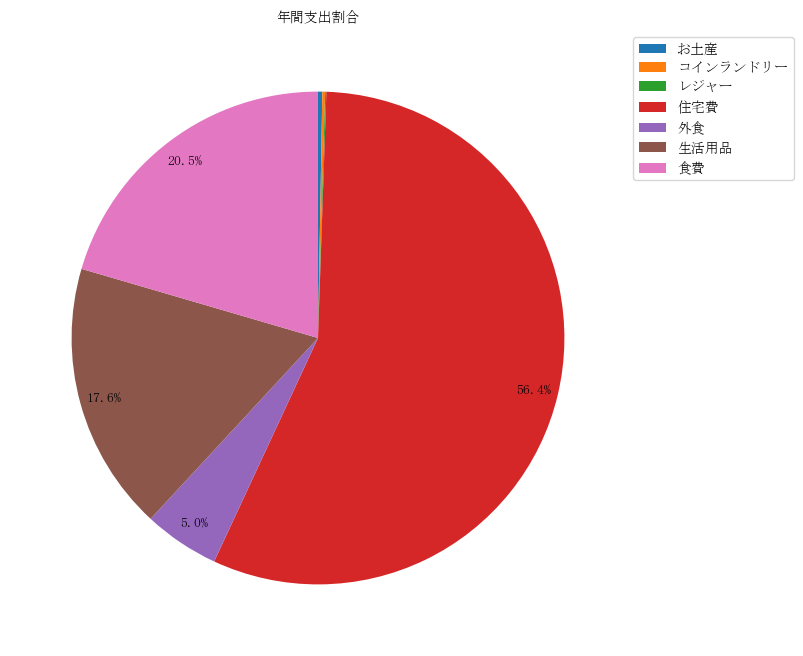
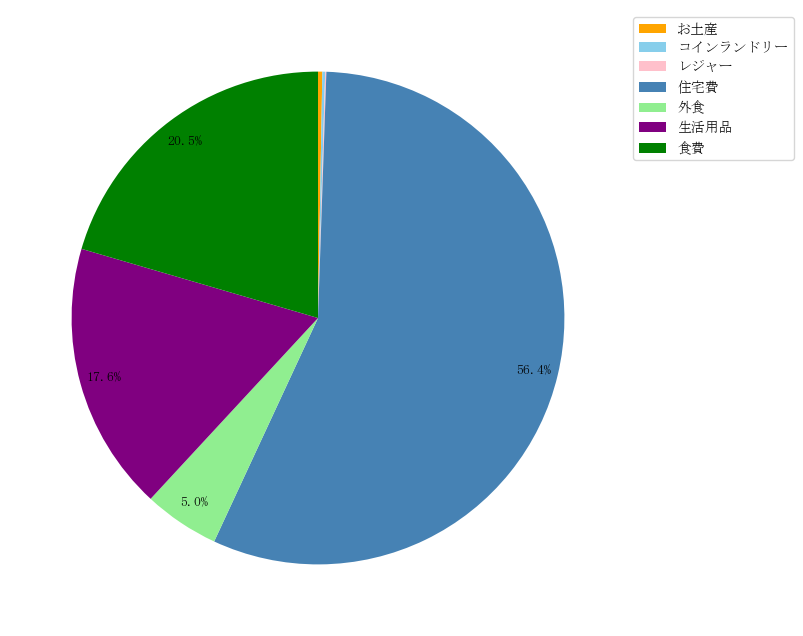
グラフのカテゴリーの色を変更

diff --git a/templates/analysis.html b/templates/analysis.html
@@ -24,17 +24,29 @@
     <div class="container">
         <h2>支出のグラフ</h2>
         <div class="graph_container">
-            {% if graph_url %}
-                <img src="{{ graph_url }}" alt="分類別各月の支出金額">
-            {% else %}
-                <p>データがありません。</p>
-            {% endif %}
+            <table border="1">
+                <tr>
+                    <th>分類別各月の支出金額</th>
+                    <th>分類別年間の支出割合</th>
+                </tr>
+                <tr>
+                    <td>
+                        {% if graph_url %}
+                            <img src="{{ graph_url }}" alt="分類別各月の支出金額">
+                        {% else %}
+                            <p>データがありません。</p>
+                        {% endif %}
+                    </td>
+                    <td>
+                        {% if pie_chart_url %}
+                            <img src="{{ pie_chart_url }}" alt="分類別年間の支出割合">
+                        {% else %}
+                            <p>データがありません。</p>
+                        {% endif %}
+                    </td>
+                </tr>
+            </table>
         
-            {% if pie_chart_url %}
-                <img src="{{ pie_chart_url }}" alt="分類別年間の支出割合">
-            {% else %}
-                <p>データがありません。</p>
-            {% endif %}
         </div>
     </div>
     <footer>最終更新日:</footer>

diff --git a/static/style.css b/static/style.css
@@ -294,8 +294,8 @@ button[type="submit"]:hover {
 }
 
 .graph-container img {
-    width: 48%;  /* 画像の幅を80%に調整 */
-    max-width: 1600px;  /* 最大サイズを800pxに制限 */
+    width: 55%;  /* 画像の幅を80%に調整 */
+    max-width: 200px;  /* 最大サイズを200pxに制限 */
     height: auto;  /* アスペクト比を維持 */
     border: 2px solid #ccc; /* 枠線をつける（任意） */
     border-radius: 10px; /* 角を丸くする（任意） */

diff --git a/app.py b/app.py
@@ -136,10 +136,9 @@ def get_data():
 
 # 📌 グラフを作成する関数（カテゴリーごとの月別支出額）
 def create_expense_graph():
-    
-    # 🔹 日本語フォントを設定（システム内のフォントを自動検索）
-    font_path = "/usr/share/fonts/opentype/ipafont-mincho/ipam.ttf"  # Linuxの場合
-    if not os.path.exists(font_path):  # フォントがない場合は検索
+    # 🔹 日本語フォントの設定
+    font_path = "/usr/share/fonts/opentype/ipafont-mincho/ipam.ttf"
+    if not os.path.exists(font_path):
         font_candidates = fm.findSystemFonts(fontpaths=['/usr/share/fonts', '/Library/Fonts', 'C:/Windows/Fonts'])
         font_path = next((f for f in font_candidates if 'ipag' in f.lower() or 'msmincho' in f.lower()), None)
 
@@ -148,7 +147,7 @@ def create_expense_graph():
         plt.rcParams['font.family'] = font_prop.get_name()
     else:
         print("⚠ 日本語フォントが見つかりません！英語のまま表示します。")
-        
+
     conn = sqlite3.connect(DB_FILE)
     cursor = conn.cursor()
 
@@ -170,22 +169,40 @@ def create_expense_graph():
     categories = sorted(set(row[1] for row in data))  # カテゴリーのリスト
 
     category_data = {cat: [0] * len(months) for cat in categories}
+    total_by_month = [0] * len(months)  # 月ごとの合計額を格納
 
     for month, category, amount in data:
         month_index = months.index(month)
         category_data[category][month_index] = amount
+        total_by_month[month_index] += amount  # 各月の合計を計算
+
+    # カテゴリーごとの色を設定
+    category_colors = {
+        '食費': 'green',
+        '外食': 'lightgreen',
+        '生活用品': 'purple',
+        '住宅費': 'steelblue',
+        'お土産': 'orange',
+        'コインランドリー': 'skyblue',
+        'レジャー': 'pink',
+        # 他のカテゴリーに色を追加
+    }
 
     # 積み上げ棒グラフの描画
     plt.figure(figsize=(10, 6))
     bottom_values = np.zeros(len(months))  # 積み上げ用の初期値
 
     for category, values in category_data.items():
-        plt.bar(months, values, bottom=bottom_values, label=category)
+        color = category_colors.get(category, 'gray')  # 指定がない場合は灰色
+        plt.bar(months, values, bottom=bottom_values, label=category, color=color)
         bottom_values += np.array(values)
-    
+
+    # 月ごとの合計金額を棒の上にラベル表示
+    for i, total in enumerate(total_by_month):
+        plt.text(months[i], total + 3000, f"{int(total):,}円", ha="center", fontsize=12, fontweight="bold")
+
     plt.xlabel("月")
     plt.ylabel("支出金額")
-    plt.title("月ごとのカテゴリー別支出")
     plt.xticks(months)  # X軸を月に設定
     plt.legend()
 
@@ -194,6 +211,7 @@ def create_expense_graph():
     plt.savefig(graph_path, bbox_inches="tight")
     plt.close()
     return "/static/expense_chart.png"
+
 
 # 📌 カテゴリーごとの年間支出割合の円グラフを作成
 def create_pie_chart():
@@ -227,12 +245,29 @@ def create_pie_chart():
     else:
         print("⚠ 日本語フォントが見つかりません！英語のまま表示します。")
 
+    # カテゴリーごとの色を設定
+    category_colors = {
+        '食費': 'green',
+        '外食': 'lightgreen',
+        '生活用品': 'purple',
+        '住宅費': 'steelblue',
+        'お土産': 'orange',
+        'コインランドリー': 'skyblue',
+        'レジャー': 'pink',
+        # 他のカテゴリーに色を追加
+    }
+
     # 🔹 円グラフを描画（ラベルの位置を調整）
     plt.figure(figsize=(8, 8))
+    
+    # 色をカテゴリーに対応させてリストに変換
+    colors = [category_colors.get(category, 'gray') for category in categories]
+    
     wedges, texts, autotexts = plt.pie(
         amounts, labels=None, autopct=autopct_format, startangle=90, counterclock=False,
         pctdistance=0.9,  # 数値（％）の表示位置を調整（円の中心からの距離）
-        labeldistance=1.15  # ラベルの距離を調整
+        labeldistance=1.15,  # ラベルの距離を調整
+        colors=colors  # カテゴリーごとに色を指定
     )
 
     # 🔹 ラベルのサイズを調整
@@ -243,8 +278,6 @@ def create_pie_chart():
         autotext.set_fontsize(10)  # 割合（％）のフォントサイズ
         autotext.set_color("black")  # ％の色を変更
         autotext.set_fontweight("bold")  # 太字にする
-
-    plt.title("年間支出割合", fontproperties=font_prop)
 
     # 🔹 凡例を追加（ラベルの重なりを避ける）
     plt.legend(wedges, categories, loc="upper left", bbox_to_anchor=(1, 1), fontsize=10)
